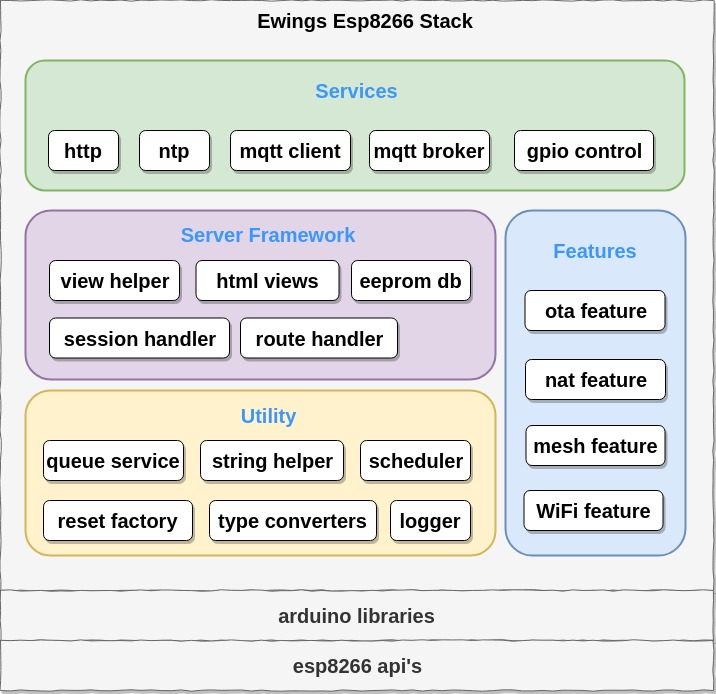
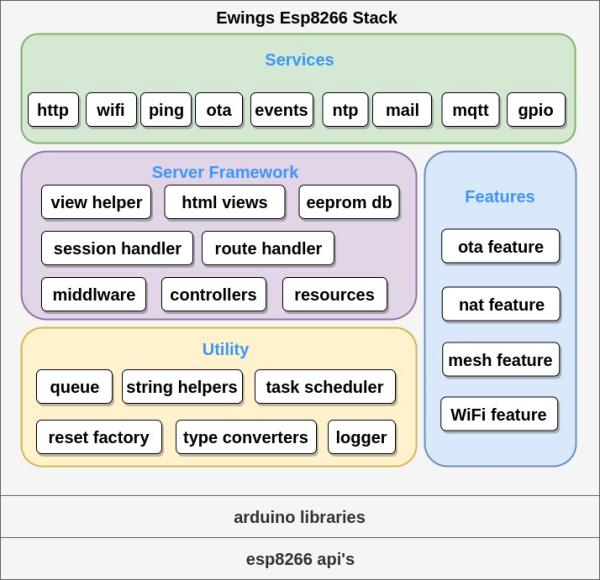
updating doc

diff --git a/src/config/Common.h b/src/config/Common.h
@@ -78,8 +78,8 @@ extern "C" {
 /**
  * @define default username/ssid and password
  */
-#define USER            "Ewings"
-#define PASSPHRASE      "Ewings@123"
+#define USER            "esp8266Stack"
+#define PASSPHRASE      "espStack@8266"
 
 /**
  * @define general http parameters

diff --git a/README.md b/README.md
@@ -24,19 +24,19 @@ Ewings framework sits on the top of these Arduino libraries. So the whole struct
 
 ## Usage
 
-clone or download source, copy folder to esp8266 libraries path and restart the arduino ide. now navigate to File->Examples->EwingsEsp8266Stack->testing example compile and upload. 
+clone or download source, copy folder to esp8266 libraries path and restart the arduino ide. now navigate to File->Examples->EwingsEsp8266Stack->testing example compile and upload.
 
 **for now** : if you are uploading it first time in device then to load first default settings press flash key on nodemcu board for upto 10 seconds after 18-20 seconds from device initialize. device will get reset to default settings and restart.
 
-* after initialing device completely check in pc/mobile wifi list if **esp8266** name appear.
-* select it and enter default password **esp@8266**. 
+* after initialing device completely check in pc/mobile wifi list if **esp8266Stack** name appear.
+* select it and enter default password **espStack@8266**.
 * finally after succesful connectinon to device open browser, type **192.168.0.1** in address bar and hit enter
-* you will get in login screen, enter default username and password **( username: esp8266, password: esp@8266 )**
+* you will get in login screen, enter default username and password **( username: esp8266Stack, password: espStack@8266 )**
 * now you will able to see below menu options
 
 ![Local Portal](doc/portal_home_menu.jpg)
 
-you can play with all settings. 
+you can play with all settings.
 
 you can make custom default configs by making changes in files of src/config folder.
 
@@ -128,6 +128,8 @@ These helpers help to dynamically creates html tags.
 * **Views :**
 These are static html pages that split into header, middle and footer sections. At the time of sending http response we gathers them to form a complete html page.
 
+* **Web Resources :**
+These are required resources to server framework components.
 
 ## Features
 
